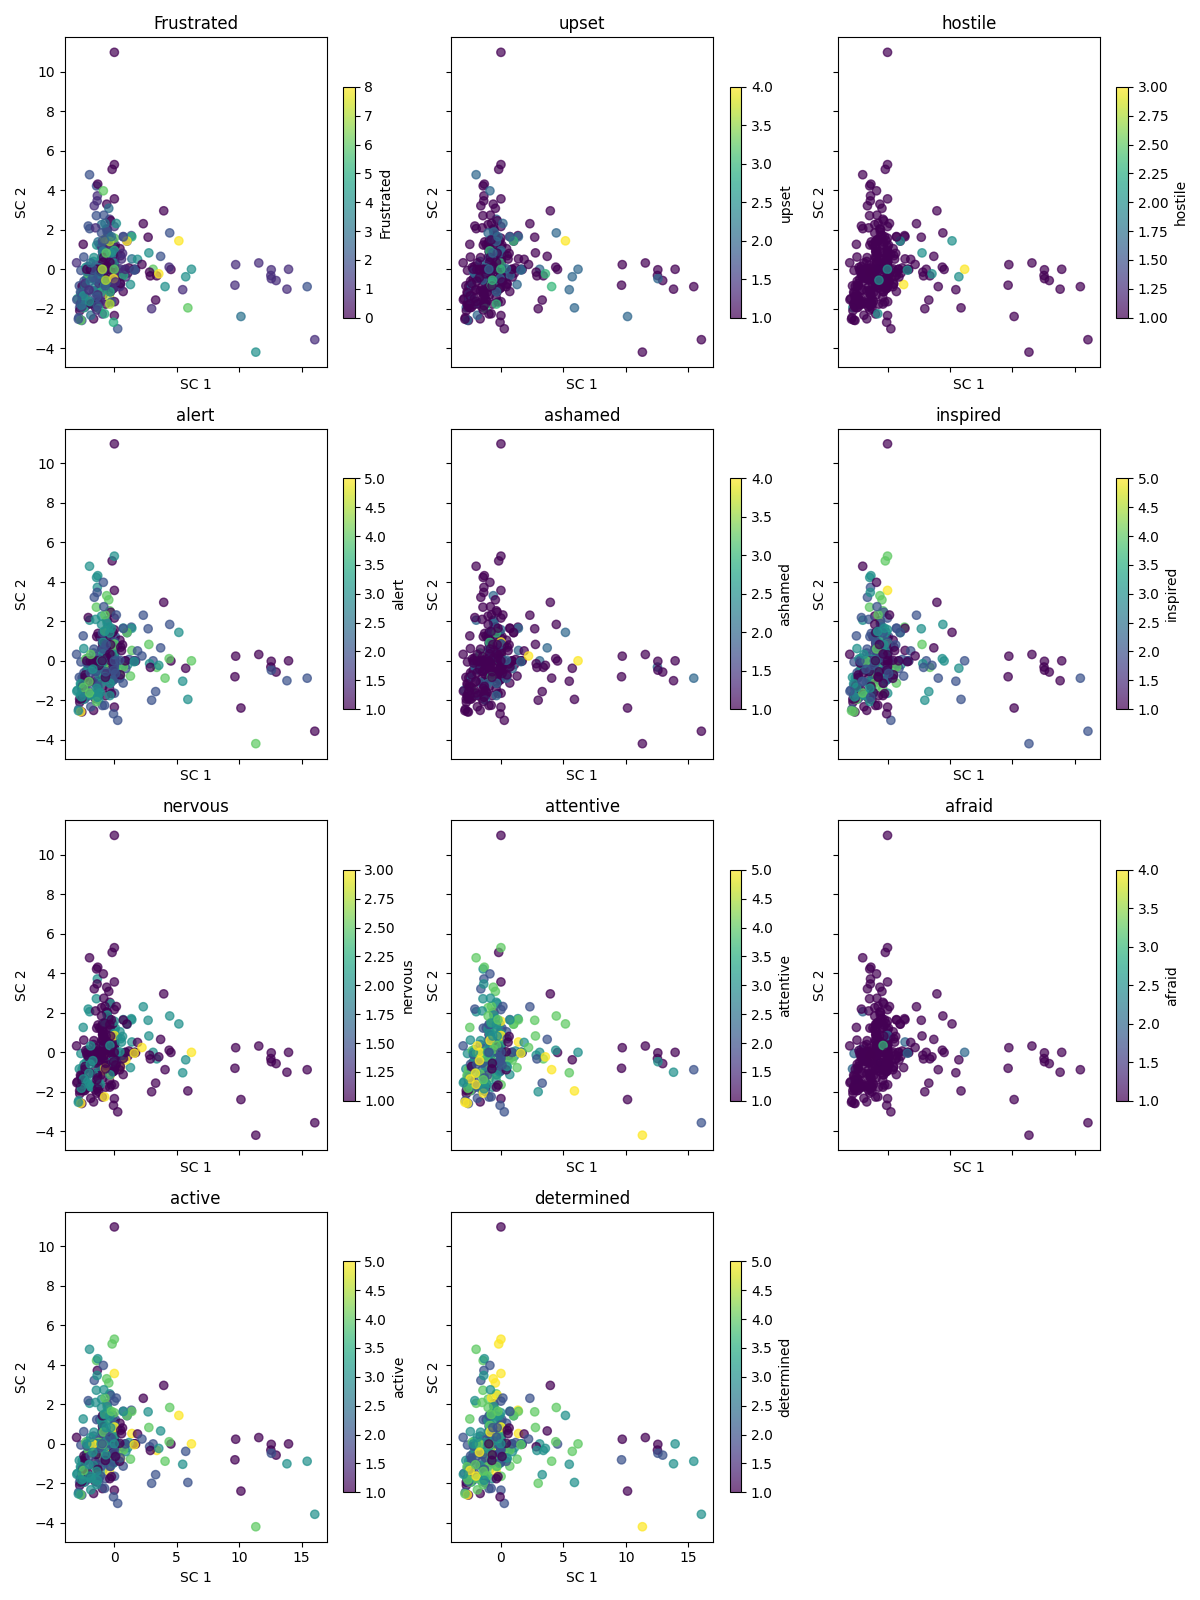
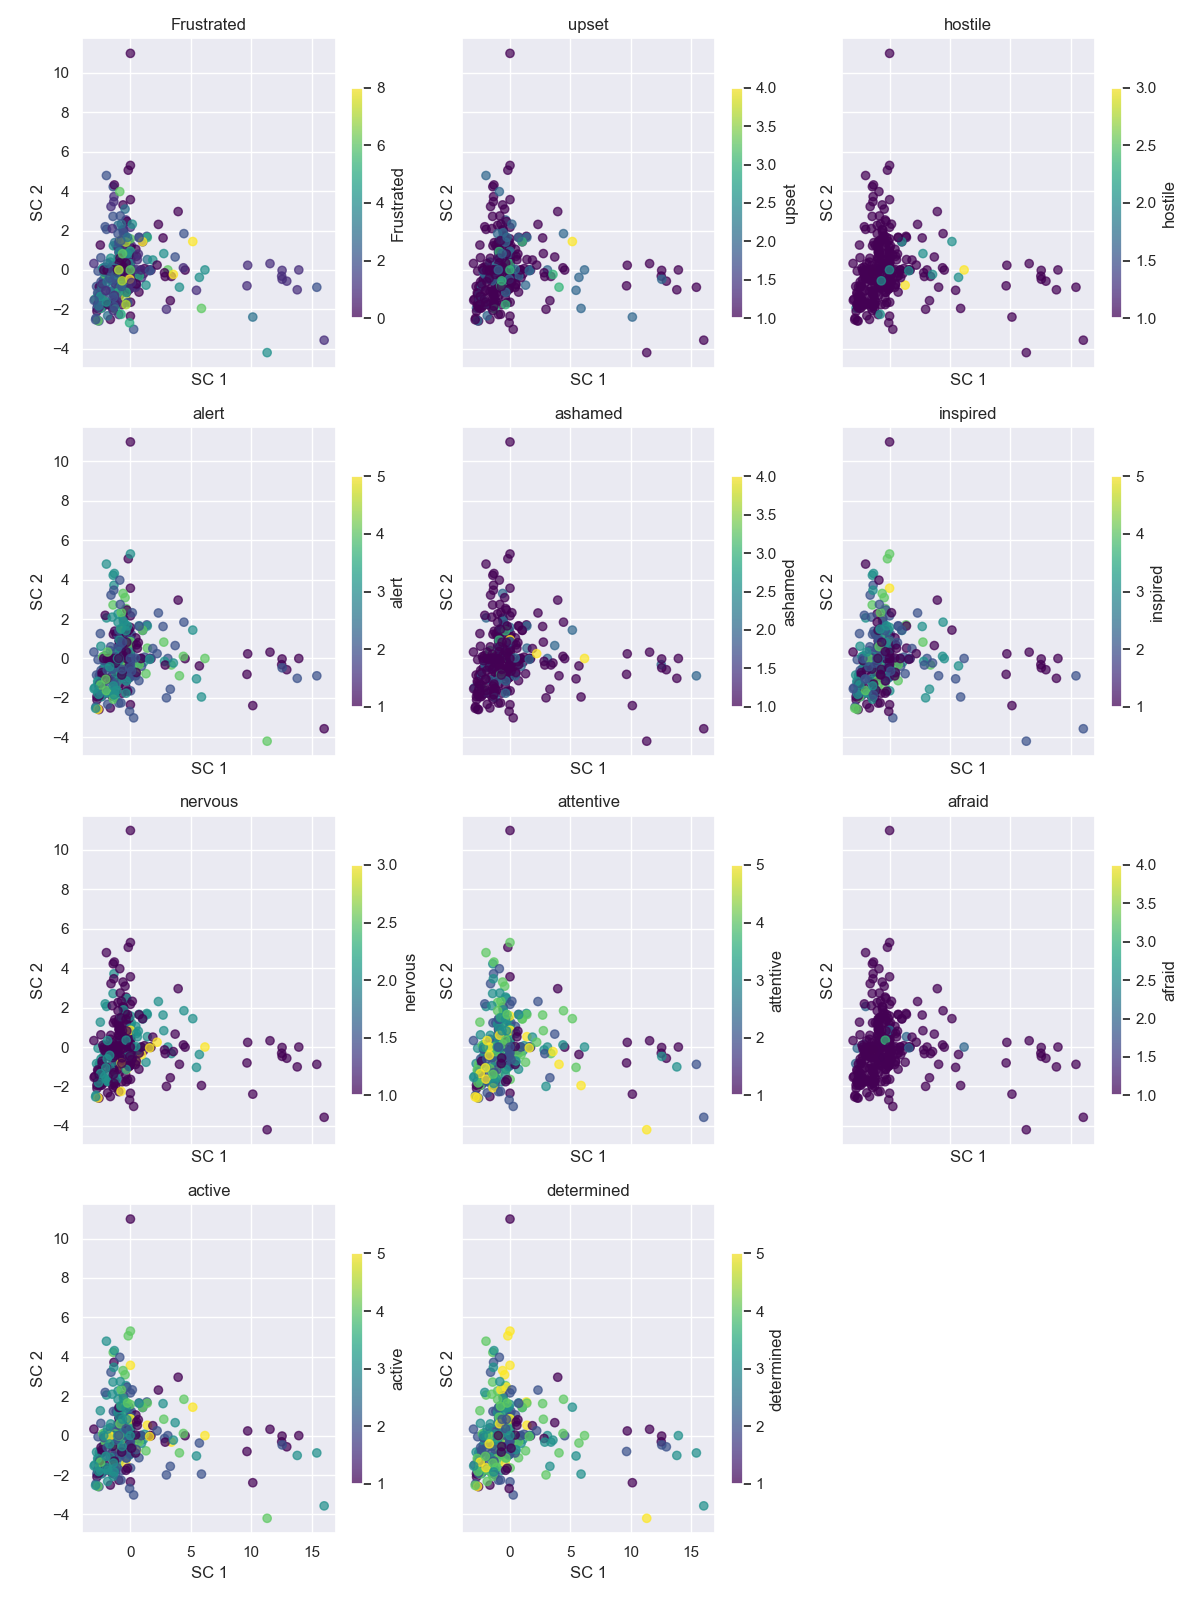
Fixed NMF plots

diff --git a/src/case2/decomposition/nmf.py b/src/case2/decomposition/nmf.py
@@ -6,9 +6,14 @@ import matplotlib.pyplot as plt
 from sklearn.decomposition import NMF
 from typing import List, Tuple, Optional
 from pathlib import Path
+import seaborn as sns
+import math
+
+sns.set_theme(style="darkgrid")
+
 
 # Directory to save figures
-FIGURE_DIR = Path(__file__).expanduser().parent.parent.parent.parent / 'docs' / 'figures'
+FIGURE_DIR = Path(__file__).expanduser().parent.parent.parent.parent / 'docs' / 'figures' / 'nmf' 
 FIGURE_DIR.mkdir(parents=True, exist_ok=True)
 
 
@@ -111,6 +116,73 @@ def plot_components_grid(
     fig.savefig(save_path)
     plt.close(fig)
 
+def plot_nmf_subplots(
+    W: np.ndarray,
+    y: pd.DataFrame,
+    save_path: Optional[Path] = None,
+    method_name: str = "NMF"
+) -> None:
+    """
+    Plot NMF embedding (first two components) in subplots for:
+      - 'Phase'
+      - 'Puzzler'
+      - each emotion column in y
+    Uses the same style/layout as the PCA subplots.
+    """
+    # 1) Build titles dict
+    phases = np.sort(y.index.get_level_values("Phase").unique())
+    titles = {"Phase": phases}
+    for col in y.columns:
+        if col not in titles and col not in ["Individual", "Round"]:
+            titles[col] = np.sort(y[col].unique())
+
+    # 2) Grid dimensions
+    n_plots = len(titles)
+    ncols = math.ceil(math.sqrt(n_plots))
+    nrows = math.ceil(n_plots / ncols)
+
+    fig, axes = plt.subplots(
+        nrows, ncols,
+        figsize=(7 * ncols, 7 * nrows),
+        sharex=True, sharey=True
+    )
+    axes = axes.flatten()
+
+    # 3) Scatter by each label
+    for ax, (title, unique_vals) in zip(axes, titles.items()):
+        for val in unique_vals:
+            # mask on MultiIndex or on column
+            try:
+                mask = y.index.get_level_values(title) == val
+            except KeyError:
+                mask = y[title] == val
+            idx = np.where(mask)[0]
+
+            ax.scatter(
+                W[idx, 0], W[idx, 1],
+                label=str(val),
+                alpha=0.7
+            )
+
+        # PCA‐style axes and grid
+        ax.set_xlabel("Comp 1")
+        ax.set_ylabel("Comp 2")
+        ax.axhline(0, color="grey", linestyle="--", linewidth=1)
+        ax.axvline(0, color="grey", linestyle="--", linewidth=1)
+        ax.legend()
+        ax.grid(True)
+        ax.set_title(f"{method_name} - {title}")
+
+    # 4) Disable any extra axes
+    for ax in axes[len(titles):]:
+        ax.set_visible(False)
+
+    plt.tight_layout()
+    if save_path is None:
+        save_path = FIGURE_DIR / f"{method_name.lower()}_subplots.png"
+    save_path.parent.mkdir(parents=True, exist_ok=True)
+    plt.savefig(save_path)
+    plt.close(fig)
 
 def run_nmf_pipeline(
     X: pd.DataFrame,
@@ -140,9 +212,19 @@ def run_nmf_pipeline(
     # 4) Plot explained variance with vertical marker
     plot_explained_variance(k_list, explained_var, chosen_k=chosen)
 
-    # 5) Bar-chart grid of components
-    _, H_sel, _ = compute_nmf(X_nonneg.values, chosen)
-    plot_components_grid(H_sel, list(X.columns))
+    # after computing W_sel, H_sel in run_nmf_pipeline...
+    W_sel, H_sel, _ = compute_nmf(X_nonneg.values, chosen)
+
+    # existing bar‐grid
+    plot_components_grid(H_sel, list(X.columns))    
+
+    # new NMF scatter‐subplots
+    print("Plotting NMF scatter subplots for Phase, Puzzler, and emotions...")
+    plot_nmf_subplots(
+        W_sel,
+        y,
+        save_path=FIGURE_DIR / "nmf_subplots.png"
+    )
 
     return None, None, errs
 

diff --git a/src/case2/main.py b/src/case2/main.py
@@ -11,10 +11,10 @@ def main():
     hr_df, X, y = run_data_loading()
 
     # Decomposition methods
-    # run_nmf_pipeline(X, y)
-    # run_ica_pipeline(X, y)
+    run_nmf_pipeline(X, y)
+    run_ica_pipeline(X, y)
     # run_aa_pipeline(X, y)
-    run_sc_pipeline(X, y)
+    # run_sc_pipeline(X, y)
 
 
 if __name__ == "__main__":
